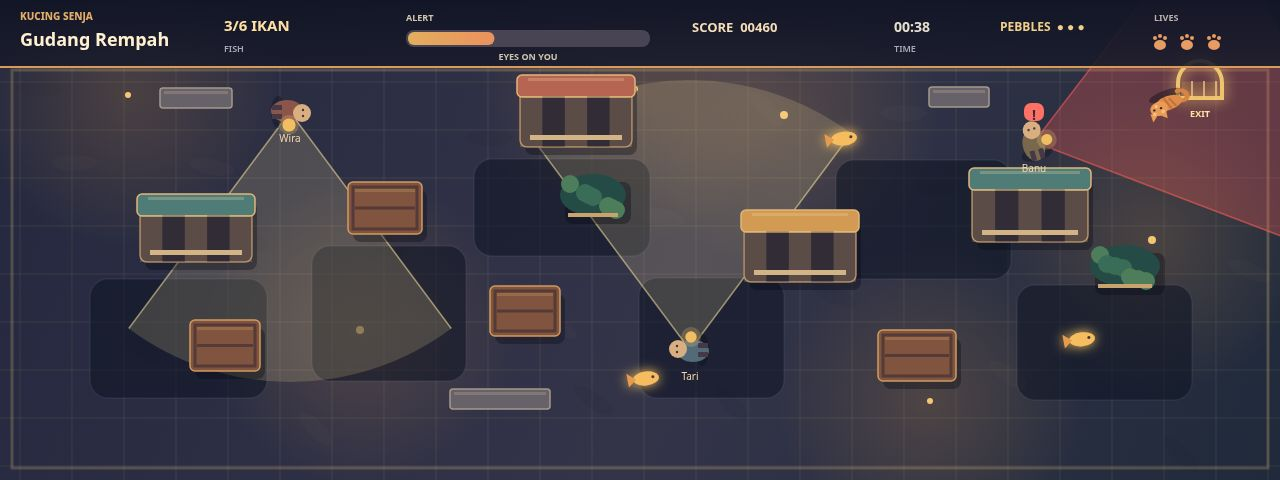
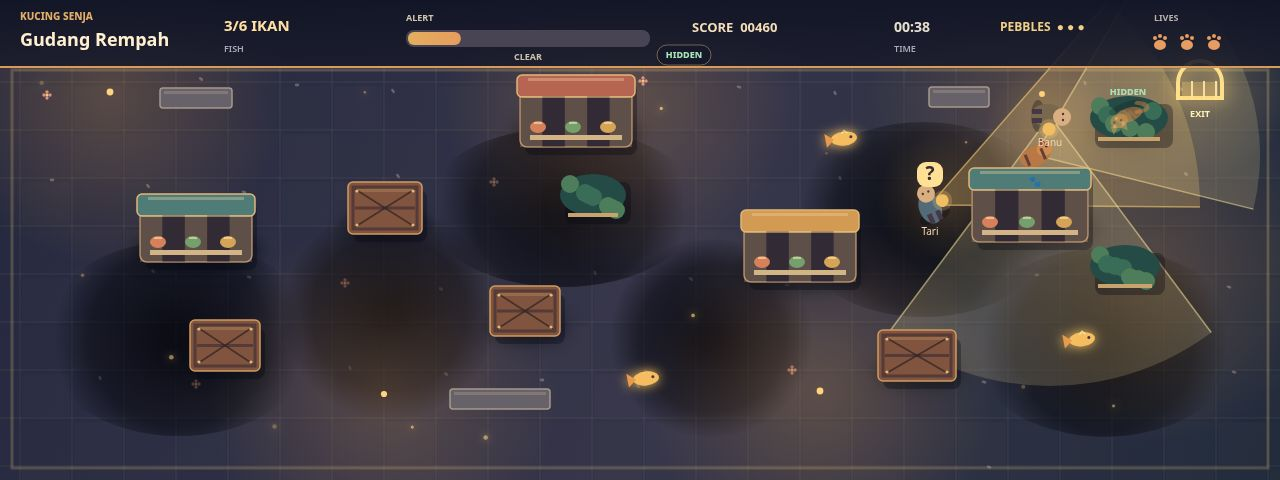
V2: lighting layer, bush-hidden, level 3 key, 3rd guard, dramatic shots

diff --git a/game/src/art.js b/game/src/art.js
@@ -1,4 +1,5 @@
 import { WIDTH, HEIGHT } from './config.js';
+import { drawLighting } from './lighting.js';
 
 const stalls=['#b76553','#d29a52','#507c78'];
 function roundBox(c,x,y,w,h,r,fill,stroke){c.beginPath();c.roundRect(x,y,w,h,r);c.fillStyle=fill;c.fill();if(stroke){c.strokeStyle=stroke;c.lineWidth=1.5;c.stroke();}}
@@ -8,13 +9,12 @@ export function drawFloor(c,state){
   const grad=c.createLinearGradient(0,0,WIDTH,HEIGHT);grad.addColorStop(0,'#24283e');grad.addColorStop(.54,'#343449');grad.addColorStop(1,'#202a3b');c.fillStyle=grad;c.fillRect(0,0,WIDTH,HEIGHT);
   c.save();c.globalAlpha=.12;c.strokeStyle='#d0b58a';c.lineWidth=1;
   for(let x=20;x<WIDTH;x+=52){c.beginPath();c.moveTo(x,66);c.lineTo(x,HEIGHT);c.stroke();}
-  for(let y=82;y<HEIGHT;y+=48){c.beginPath();c.moveTo(0,y);c.lineTo(WIDTH,y);c.stroke();}
-  c.restore();
-  // Irregular cobbles and warm pools make the lanes legible at a glance.
-  for(let i=0;i<22;i++){const x=(i*173+39)%WIDTH,y=88+(i*79)%370;c.fillStyle=i%2?'rgba(177,155,132,.035)':'rgba(20,23,37,.08)';c.beginPath();c.ellipse(x,y,23,8,(i%5)*.2,0,Math.PI*2);c.fill();}
-  const lanterns=[[128,95],[360,330],[635,89],[784,115],[930,401],[1152,240]];
-  lanterns.forEach(([x,y],i)=>{glow(c,x,y,155,'#f4a94e',.17);c.fillStyle='#f6c674';c.beginPath();c.arc(x,y,3+(i%2),0,Math.PI*2);c.fill();});
-  state.level.shadows.forEach((s)=>{c.save();c.fillStyle='rgba(12,17,32,.52)';c.beginPath();c.roundRect(s.x,s.y,s.w,s.h,18);c.fill();c.strokeStyle='rgba(132,147,178,.12)';c.stroke();c.restore();});
+  for(let y=82;y<HEIGHT;y+=48){c.beginPath();c.moveTo(0,y);c.lineTo(WIDTH,y);c.stroke();}c.restore();
+  const seed=state.seed||1;
+  for(let y=84;y<HEIGHT;y+=48)for(let x=20;x<WIDTH;x+=52){const grain=((x*17+y*29+seed*13)%11)/11;c.fillStyle='rgba(220,183,133,'+(.008+grain*.025)+')';c.fillRect(x+2,y+2,48,43);}
+  for(let i=0;i<40;i++){const x=24+(i*197+seed*23)%1230,y=78+(i*97+seed*17)%390;
+    if(i%7===0){c.fillStyle='#d68a87';for(let petal=0;petal<4;petal++){c.beginPath();c.arc(x+Math.cos(petal*Math.PI/2)*3,y+Math.sin(petal*Math.PI/2)*3,1.7,0,Math.PI*2);c.fill();}c.fillStyle='#efcf7c';c.beginPath();c.arc(x,y,1.5,0,Math.PI*2);c.fill();}
+    else{c.fillStyle='rgba(185,172,159,.42)';c.beginPath();c.ellipse(x,y,2.4,1.4,(i%5)*.3,0,Math.PI*2);c.fill();}}
   c.strokeStyle='rgba(232,192,125,.24)';c.lineWidth=3;c.strokeRect(12,70,1256,398);
 }
 
@@ -25,25 +25,25 @@ export function drawVision(c,g){
   c.globalAlpha=.56;c.strokeStyle=color;c.lineWidth=1.5;c.beginPath();c.moveTo(g.x,g.y);c.lineTo(g.x+Math.cos(g.angle-fov)*range,g.y+Math.sin(g.angle-fov)*range);c.moveTo(g.x,g.y);c.lineTo(g.x+Math.cos(g.angle+fov)*range,g.y+Math.sin(g.angle+fov)*range);c.stroke();c.restore();
 }
 
-function drawFish(c,f,t){if(f.taken)return;c.save();c.translate(f.x,f.y+Math.sin(t*3+f.x)*2);c.rotate(-.12);c.shadowColor='#ffc65f';c.shadowBlur=12;c.fillStyle='#f6bd60';c.beginPath();c.ellipse(0,0,13,7,0,0,Math.PI*2);c.fill();c.beginPath();c.moveTo(-10,0);c.lineTo(-19,-7);c.lineTo(-18,7);c.closePath();c.fillStyle='#e99b4d';c.fill();c.shadowBlur=0;c.fillStyle='#47384a';c.beginPath();c.arc(7,-1,1.5,0,Math.PI*2);c.fill();c.restore();}
-function drawExit(c,p,t){c.save();c.translate(p.x,p.y);c.shadowColor='#ffd270';c.shadowBlur=18+Math.sin(t*3)*5;c.strokeStyle='#efc46e';c.lineWidth=4;c.beginPath();c.arc(0,0,22,Math.PI,Math.PI*2);c.lineTo(22,15);c.lineTo(-22,15);c.closePath();c.stroke();c.shadowBlur=0;c.fillStyle='rgba(230,173,86,.18)';c.fillRect(-18,-1,36,16);c.strokeStyle='rgba(241,203,131,.7)';c.lineWidth=2;c.beginPath();c.moveTo(-8,-2);c.lineTo(-8,15);c.moveTo(4,-2);c.lineTo(4,15);c.moveTo(16,-2);c.lineTo(16,15);c.stroke();c.fillStyle='#ffe4a1';c.font='700 9px system-ui';c.textAlign='center';c.fillText('EXIT',0,31);c.restore();}
+function drawFish(c,f,t){if(f.taken)return;c.save();c.translate(f.x,f.y+Math.sin(t*3+f.x)*2);c.rotate(-.12);c.shadowColor='#ffc65f';c.shadowBlur=12;c.fillStyle='#f6bd60';c.beginPath();c.ellipse(0,0,13,7,0,0,Math.PI*2);c.fill();c.beginPath();c.moveTo(-10,0);c.lineTo(-19,-7);c.lineTo(-18,7);c.closePath();c.fillStyle='#e99b4d';c.fill();c.shadowBlur=0;c.fillStyle='#47384a';c.beginPath();c.arc(7,-1,1.5,0,Math.PI*2);c.fill();c.globalAlpha=.8*Math.max(0,Math.sin(t*4+f.x)*.5+.5);c.strokeStyle='#fff1bf';c.lineWidth=1.4;c.beginPath();c.moveTo(-2,-5);c.lineTo(1,-8);c.lineTo(4,-5);c.stroke();c.restore();}
+function drawExit(c,p,t,open=true){const locked=!open;c.save();c.translate(p.x,p.y);c.shadowColor=locked?'#c98458':'#ffd270';c.shadowBlur=(locked?7:24)+Math.sin(t*3)*6;c.strokeStyle=locked?'#a96f55':'#ffe08a';c.lineWidth=4;c.beginPath();c.arc(0,0,22,Math.PI,Math.PI*2);c.lineTo(22,15);c.lineTo(-22,15);c.closePath();c.stroke();c.shadowBlur=0;c.fillStyle=locked?'rgba(53,37,45,.8)':'rgba(255,210,111,.3)';c.fillRect(-18,-1,36,16);c.strokeStyle=locked?'rgba(190,132,101,.8)':'rgba(255,231,169,.9)';c.lineWidth=2;c.beginPath();for(const x of [-8,4,16]){c.moveTo(x,-2);c.lineTo(x,15);}c.stroke();c.fillStyle=locked?'#e3a486':'#fff0b8';c.font='700 9px system-ui';c.textAlign='center';c.fillText(locked?'LOCKED':'EXIT',0,31);c.restore();};function drawKey(c,k,t){c.save();c.translate(k.x,k.y+Math.sin(t*3)*2);c.rotate(-.35);c.shadowColor='#ffe08b';c.shadowBlur=16;c.strokeStyle='#ffdb77';c.lineWidth=4;c.beginPath();c.arc(-4,0,6,0,Math.PI*2);c.moveTo(2,0);c.lineTo(17,0);c.lineTo(17,5);c.moveTo(12,0);c.lineTo(12,4);c.stroke();c.shadowBlur=0;c.fillStyle='#fff2bf';c.beginPath();c.arc(-4,0,2,0,Math.PI*2);c.fill();c.restore();}
 
 export function drawCover(c,items){
   for(const o of items){c.save();c.fillStyle='rgba(7,10,20,.34)';c.beginPath();c.roundRect(o.x+5,o.y+8,o.w,o.h,8);c.fill();
-    if(o.type==='stall'){roundBox(c,o.x,o.y+12,o.w,o.h-12,7,'#392f38','#a98563');const col=stalls[o.tone||0];roundBox(c,o.x-3,o.y,o.w+6,22,5,col,'#e0b77b');c.fillStyle='rgba(245,217,162,.26)';c.fillRect(o.x+8,o.y+3,o.w-16,3);for(let i=0;i<5;i++){c.fillStyle=i%2?'rgba(26,33,50,.2)':'rgba(250,211,145,.18)';c.fillRect(o.x+i*o.w/5,o.y+21,o.w/5,o.h-21);}c.fillStyle='#d3b486';c.fillRect(o.x+10,o.y+o.h-12,o.w-20,5);}
-    else if(o.type==='crate'){roundBox(c,o.x,o.y,o.w,o.h,5,'#80543e','#d19a5f');c.strokeStyle='#543b37';c.lineWidth=3;c.strokeRect(o.x+5,o.y+5,o.w-10,o.h-10);c.beginPath();c.moveTo(o.x+7,o.y+o.h/2);c.lineTo(o.x+o.w-7,o.y+o.h/2);c.stroke();c.fillStyle='rgba(246,199,126,.2)';c.fillRect(o.x+7,o.y+7,o.w-14,3);}
+    if(o.type==='stall'){roundBox(c,o.x,o.y+12,o.w,o.h-12,7,'#392f38','#a98563');const col=stalls[o.tone||0];roundBox(c,o.x-3,o.y,o.w+6,22,5,col,'#e0b77b');c.fillStyle='rgba(245,217,162,.34)';c.fillRect(o.x+8,o.y+3,o.w-16,3);for(let i=0;i<5;i++){c.fillStyle=i%2?'rgba(26,33,50,.22)':'rgba(250,211,145,.2)';c.fillRect(o.x+i*o.w/5,o.y+21,o.w/5,o.h-21);}c.fillStyle='#d3b486';c.fillRect(o.x+10,o.y+o.h-12,o.w-20,5);for(let i=0;i<3;i++){const gx=o.x+18+i*(o.w-42)/2;c.fillStyle=['#d68159','#75a06d','#d6a457'][i];c.beginPath();c.ellipse(gx,o.y+o.h-20,8,6,0,0,Math.PI*2);c.fill();c.fillStyle='rgba(255,235,186,.55)';c.fillRect(gx-4,o.y+o.h-25,8,2);}}
+    else if(o.type==='crate'){roundBox(c,o.x,o.y,o.w,o.h,5,'#80543e','#d19a5f');c.strokeStyle='#543b37';c.lineWidth=3;c.strokeRect(o.x+5,o.y+5,o.w-10,o.h-10);c.beginPath();c.moveTo(o.x+7,o.y+o.h/2);c.lineTo(o.x+o.w-7,o.y+o.h/2);c.stroke();c.fillStyle='rgba(246,199,126,.2)';c.fillRect(o.x+7,o.y+7,o.w-14,3);c.strokeStyle='rgba(43,31,34,.7)';c.lineWidth=1.5;c.beginPath();c.moveTo(o.x+7,o.y+7);c.lineTo(o.x+o.w-7,o.y+o.h-7);c.moveTo(o.x+o.w-7,o.y+7);c.lineTo(o.x+7,o.y+o.h-7);c.stroke();c.fillStyle='#e2b77b';for(const [nx,ny] of [[9,9],[o.w-9,9],[9,o.h-9],[o.w-9,o.h-9]]){c.beginPath();c.arc(o.x+nx,o.y+ny,1.6,0,Math.PI*2);c.fill();}}
     else if(o.type==='bush'){c.fillStyle='#254b46';c.beginPath();c.ellipse(o.x+o.w/2,o.y+o.h/2,o.w/2,o.h/2,0,0,Math.PI*2);c.fill();for(let i=0;i<7;i++){const x=o.x+10+(i*23)%(o.w-16),y=o.y+10+(i*13)%(o.h-14);c.fillStyle=i%2?'#396d58':'#4e7d5b';c.beginPath();c.arc(x,y,9,0,Math.PI*2);c.fill();}c.fillStyle='#c9a36d';c.fillRect(o.x+8,o.y+o.h-3,o.w-16,4);}
     c.restore();}
 }
 
 function drawWall(c,w){roundBox(c,w.x,w.y,w.w,w.h,3,'#67616a','#a5998b');c.fillStyle='rgba(255,230,184,.18)';c.fillRect(w.x+4,w.y+3,w.w-8,3);}
 export function drawWorld(c,state){
-  drawFloor(c,state);state.guards.forEach((g)=>drawVision(c,g));
-  state.fish.forEach((f)=>drawFish(c,f,state.elapsed));drawExit(c,state.level.exit,state.elapsed);
+  drawFloor(c,state);drawLighting(c,state);state.guards.forEach((g)=>drawVision(c,g));
+  state.fish.forEach((f)=>drawFish(c,f,state.elapsed));if(state.level.key&&!state.hasKey)drawKey(c,state.level.key,state.elapsed);drawExit(c,state.level.exit,state.elapsed,!state.level.key||state.hasKey);
   if(state.noise&&state.noise.life>0){c.save();c.globalAlpha=Math.min(.55,state.noise.life);c.strokeStyle='#f3d07e';c.lineWidth=2;c.beginPath();c.arc(state.noise.x,state.noise.y,24+(1-state.noise.life)*70,0,Math.PI*2);c.stroke();c.restore();}
   state.effects.forEach((e)=>{c.save();c.globalAlpha=Math.max(0,e.life/.7);c.strokeStyle=e.color;c.lineWidth=2;c.beginPath();c.arc(e.x,e.y,10+(1-e.life)*36,0,Math.PI*2);c.stroke();c.restore();});
   state.level.walls.forEach((w)=>drawWall(c,w));drawCover(c,state.level.cover);
-  state.guards.forEach((g)=>drawGuard(c,g,state.elapsed));drawCat(c,state.player);
+  state.guards.forEach((g)=>drawGuard(c,g,state.elapsed));drawCat(c,state.player,state.elapsed);
 }
 
 function drawGuard(c,g,t){
@@ -64,19 +64,20 @@ function drawGuard(c,g,t){
   }
   c.restore();
   c.fillStyle='#f2d6b0';c.font='10px system-ui';c.textAlign='center';c.fillText(g.kind==='dog'?'🐾':g.name,g.x,g.y+27);
-  if(g.state==='suspicious'||g.state==='chase'){c.save();c.fillStyle=g.state==='chase'?'#ff7165':'#ffe095';c.beginPath();c.roundRect(g.x-10,g.y-39,20,18,7);c.fill();c.fillStyle='#392c36';c.font='bold 14px system-ui';c.textAlign='center';c.fillText(g.state==='chase'?'!':'?',g.x,g.y-26);c.restore();}
+  if(g.state==='suspicious'||g.state==='chase'){c.save();c.fillStyle=g.state==='chase'?'#ff7165':'#ffe095';c.beginPath();c.roundRect(g.x-13,g.y-43,26,25,9);c.fill();c.fillStyle='#392c36';c.font='bold 19px system-ui';c.textAlign='center';c.fillText(g.state==='chase'?'!':'?',g.x,g.y-30);c.restore();}
 }
 
-export function drawCat(c,p){
-  c.save();c.translate(p.x,p.y);c.rotate(p.face);c.scale(p.sneaking?1:.95,p.sneaking?.78:1);
+export function drawCat(c,p,t=0){
+  c.save();if(p.hidden)c.globalAlpha=.48;c.translate(p.x,p.y);c.rotate(p.face);c.scale(p.sneaking?1:.95,p.sneaking?.78:1);
   c.fillStyle='rgba(3,7,17,.4)';c.beginPath();c.ellipse(-1,11,18,7,0,0,Math.PI*2);c.fill();
-  c.strokeStyle='#d78343';c.lineWidth=5;c.lineCap='round';c.beginPath();c.moveTo(-10,1);c.bezierCurveTo(-24,-10,-24,12,-13,12);c.stroke();
+  const tail=Math.sin(t*5+p.x*.01)*8;c.strokeStyle='#d78343';c.lineWidth=5;c.lineCap='round';c.beginPath();c.moveTo(-10,1);c.bezierCurveTo(-24,-10+tail,-24,12-tail,-13,12);c.stroke();
   c.fillStyle='#df8c49';c.beginPath();c.ellipse(-1,1,14,9,0,0,Math.PI*2);c.fill();
   c.fillStyle='#eb9b54';c.beginPath();c.arc(10,-2,9,0,Math.PI*2);c.fill();
-  c.beginPath();c.moveTo(4,-8);c.lineTo(5,-17);c.lineTo(12,-9);c.fill();c.beginPath();c.moveTo(13,-9);c.lineTo(20,-16);c.lineTo(20,-5);c.fill();
+  c.beginPath();c.moveTo(4,-8);c.lineTo(5,-17);c.lineTo(12,-9);c.fill();const twitch=Math.sin(t*2.7+1)*1.5;c.beginPath();c.moveTo(13,-9);c.lineTo(20,-16+twitch);c.lineTo(20,-5);c.fill();
   c.fillStyle='#f4c08a';c.beginPath();c.arc(7,-7,2,0,Math.PI*2);c.arc(16,-7,2,0,Math.PI*2);c.fill();
   c.fillStyle='#241f32';c.beginPath();c.arc(8,-2,1.3,0,Math.PI*2);c.arc(15,-2,1.3,0,Math.PI*2);c.fill();
   c.fillStyle='#f5cf90';c.beginPath();c.arc(12,2,1.6,0,Math.PI*2);c.fill();
   c.strokeStyle='#bf713e';c.lineWidth=2;c.beginPath();c.moveTo(-7,-5);c.lineTo(-3,6);c.moveTo(-2,-7);c.lineTo(2,8);c.stroke();
   c.restore();
+  if(p.hidden){c.fillStyle='#a9e2b8';c.font='800 9px system-ui';c.textAlign='center';c.fillText('HIDDEN',p.x,p.y-24);}
 }

diff --git a/game/src/render.js b/game/src/render.js
@@ -8,11 +8,13 @@ export function drawHud(c,s){
   const g=c.createLinearGradient(0,0,0,68);g.addColorStop(0,'rgba(18,21,38,.97)');g.addColorStop(1,'rgba(25,27,43,.88)');c.fillStyle=g;c.fillRect(0,0,1280,68);c.fillStyle='#d99b5a';c.fillRect(0,66,1280,2);
   label(c,'KUCING SENJA',20,17,10,'#e1ad69',800);label(c,s.level.name,20,41,18,'#fff0d1',700);
   label(c,`${s.fishCount}/${s.fish.length} IKAN`,224,27,15,'#ffe1a3',700);label(c,'FISH',224,49,9,'#a9a9b8',600);
+  if(s.level.key){c.save();c.strokeStyle=s.hasKey?'#a9e2b8':'#f3c96f';c.lineWidth=3;c.beginPath();c.arc(329,31,6,0,Math.PI*2);c.moveTo(335,31);c.lineTo(349,31);c.lineTo(349,36);c.moveTo(344,31);c.lineTo(344,35);c.stroke();label(c,s.hasKey?'KEY ✓':'KEY',356,32,10,s.hasKey?'#a9e2b8':'#f3d48d',800);c.restore();}
   label(c,'ALERT',406,18,9,s.alert>.55?'#ff8978':'#d3c6ad',700);
   c.fillStyle='#494453';c.beginPath();c.roundRect(406,30,244,17,8);c.fill();
   const meter=c.createLinearGradient(408,0,648,0);meter.addColorStop(0,'#e3ae5e');meter.addColorStop(.65,'#f2795d');meter.addColorStop(1,'#ed4c57');
   if(s.alert>0){c.fillStyle=meter;c.beginPath();c.roundRect(408,32,Math.max(4,240*s.alert),13,6);c.fill();}
   label(c,s.alert>.7?'DANGER':s.alert>.3?'EYES ON YOU':'CLEAR',528,57,9,s.alert>.55?'#ff9c89':'#cfc3ae',700,'center');
+  if(s.player.hidden){pane(c,657,45,54,20,.92);label(c,'HIDDEN',684,55,9,'#a9e2b8',800,'center');}
   label(c,`SCORE  ${String(s.score).padStart(5,'0')}`,692,28,13,'#f3deb9',700);
   const seconds=Math.floor(s.levelTime);label(c,`${String(Math.floor(seconds/60)).padStart(2,'0')}:${String(seconds%60).padStart(2,'0')}`,894,28,14,'#e7decf',700);label(c,'TIME',894,49,9,'#a9a9b8',600);
   label(c,`PEBBLES  ${'● '.repeat(s.pebbles).trim()||'—'}`,1000,28,12,'#f1cf89',700);
@@ -33,7 +35,7 @@ function titleScreen(c,s){
 
 function modal(c,title,subtitle,action,color='#f2c579'){
   pane(c,410,123,460,237,.97);c.save();c.textAlign='center';label(c,title,640,174,29,color,800,'center');label(c,subtitle,640,217,14,'#d8cfc4',500,'center');
-  c.fillStyle='rgba(237,177,93,.18)';c.beginPath();c.roundRect(500,264,280,45,12);c.fill();label(c,action,640,286,13,'#ffe1a2',700,'center');c.restore();
+  c.fillStyle='rgba(237,177,93,.18)';c.beginPath();c.roundRect(500,310,280,42,12);c.fill();label(c,action,640,331,13,'#ffe1a2',700,'center');c.restore();
 }
 
 export function render(c,s){
@@ -45,7 +47,8 @@ export function render(c,s){
   if(s.screen==='game-over')modal(c,'THE MARKET WAKES','Miko has run out of chances.','ENTER   ·   TRY AGAIN','#f17a68');
   if(s.screen==='level-complete'){
     modal(c,s.level.name.toUpperCase(),'Fish secured · the exit stayed quiet.',`+${s.levelScore}   ·   ${s.fishCount}/${s.fish.length} FISH`);
-    const stars=s.stars||1;for(let i=0;i<3;i++){c.fillStyle=i<stars?'#f4c773':'#58525c';c.font='34px system-ui';c.textAlign='center';c.fillText('★',592+i*48,255);}
+    if(!s.everSeen)label(c,'✦ NEVER SPOTTED  ·  BONUS AWARDED',640,240,11,'#a9e2b8',800,'center');
+    const stars=s.stars||1;for(let i=0;i<3;i++){c.fillStyle=i<stars?'#f4c773':'#58525c';c.font='34px system-ui';c.textAlign='center';c.fillText('★',592+i*48,273);}
   }
   if(s.screen==='win')modal(c,'DAWN, AT LAST','Miko slipped through all three markets unseen.',`FINAL SCORE   ${s.score}   ·   BEST   ${s.best}`);
 }

diff --git a/game/src/player.js b/game/src/player.js
@@ -1,5 +1,6 @@
 import { DASH_COOLDOWN, DASH_SPEED, DASH_TIME, PEBBLES_PER_LEVEL, SNEAK_SPEED, WALK_SPEED } from './config.js';
 import { sound } from './audio.js';
+import { isInShadow } from './lighting.js';
 
 export function makePlayer(start) {
   return {x:start.x,y:start.y,face:0,sneaking:false,running:false,hidden:false,inShadow:false,dash:0,dashCooldown:0,pebbleCooldown:0,stepClock:0,stride:0};
@@ -28,6 +29,7 @@ export function throwPebble(state,target) {
 
 export function updatePlayer(state,controls,dt) {
   const p=state.player;
+  if(state.keyFishRef!==state.fish){state.keyFishRef=state.fish;state.hasKey=!state.level.key;}
   p.dashCooldown=Math.max(0,p.dashCooldown-dt); p.pebbleCooldown=Math.max(0,p.pebbleCooldown-dt);
   if (controls.pebble) throwPebble(state,controls.pebble);
   let dx=controls.dx||0,dy=controls.dy||0,mag=Math.hypot(dx,dy);
@@ -42,8 +44,8 @@ export function updatePlayer(state,controls,dt) {
   const speed=dashing?DASH_SPEED:(p.sneaking?SNEAK_SPEED:WALK_SPEED);
   if (mag>0) move(p,dx*speed*dt,dy*speed*dt,[...state.level.cover,...state.level.walls]);
   p.dash=Math.max(0,p.dash-dt); p.stride+=mag*dt*(p.sneaking?5:10);
-  p.inShadow=state.level.shadows.some((r)=>p.x>r.x&&p.x<r.x+r.w&&p.y>r.y&&p.y<r.y+r.h);
-  p.hidden=state.level.cover.some((r)=>r.type==='bush'&&p.x>r.x&&p.x<r.x+r.w&&p.y>r.y&&p.y<r.y+r.h);
+  p.inShadow=isInShadow(p.x,p.y,state.level);
+  const margin=11;p.hidden=state.level.cover.some((r)=>r.type==='bush'&&p.x>=r.x+margin&&p.x<=r.x+r.w-margin&&p.y>=r.y+margin&&p.y<=r.y+r.h-margin);
   if (mag>0) {
     p.stepClock-=dt;
     if (p.stepClock<=0) {
@@ -54,6 +56,7 @@ export function updatePlayer(state,controls,dt) {
   }
   if (state.noise) { state.noise.life-=dt; if(state.noise.life<=0) state.noise=null; }
   state.comboTime=Math.max(0,state.comboTime-dt);
+  const key=state.level.key;if(key&&!state.hasKey&&Math.hypot(key.x-p.x,key.y-p.y)<24){state.hasKey=true;sound('fish');state.effects.push({x:key.x,y:key.y,life:.75,color:'#ffe08b',kind:'spark'});}
   for (const fish of state.fish) {
     if (fish.taken||Math.hypot(fish.x-p.x,fish.y-p.y)>25) continue;
     fish.taken=true; state.fishCount+=1; state.combo=state.comboTime>0?state.combo+1:1; state.comboTime=2.6;
@@ -61,7 +64,7 @@ export function updatePlayer(state,controls,dt) {
     state.effects.push({x:fish.x,y:fish.y,life:.7,color:'#ffd889',kind:'spark'});
   }
   const needed=Math.ceil(state.fish.length/2);
-  if (state.fishCount>=needed&&Math.hypot(p.x-state.level.exit.x,p.y-state.level.exit.y)<35) state.completeLevel();
+  if (state.fishCount>=needed&&(!state.level.key||state.hasKey)&&Math.hypot(p.x-state.level.exit.x,p.y-state.level.exit.y)<35) state.completeLevel();
 }
 
 export { PEBBLES_PER_LEVEL };

diff --git a/game/src/lighting.js b/game/src/lighting.js
@@ -1,0 +1,57 @@
+// Seeded lantern pools and ambient shadows keep every staged frame reproducible.
+export function isInShadow(x,y,level){
+  return Boolean(level?.shadows?.some((r)=>x>=r.x&&x<=r.x+r.w&&y>=r.y&&y<=r.y+r.h));
+}
+
+function seeded(seed){
+  let value=(Number(seed)||1)>>>0;
+  return ()=>{value=(value*1664525+1013904223)>>>0;return value/4294967296;};
+}
+
+function radial(ctx,x,y,r,color,alpha){
+  const g=ctx.createRadialGradient(x,y,2,x,y,r);
+  g.addColorStop(0,`rgba(${color},${alpha})`);g.addColorStop(1,`rgba(${color},0)`);
+  ctx.fillStyle=g;ctx.fillRect(x-r,y-r,r*2,r*2);
+}
+
+function lanternsFor(levelIndex){
+  return [
+    [[128,95],[360,330],[635,89],[784,115],[930,401],[1152,240]],
+    [[110,92],[384,394],[618,97],[820,391],[1042,94],[1152,270]],
+    [[111,94],[320,405],[576,90],[806,401],[1000,93],[1170,268]],
+  ][Math.max(0,Math.min(2,levelIndex))];
+}
+
+export function drawLighting(ctx,state){
+  const t=state.elapsed||0,seed=state.seed||1,lanterns=lanternsFor(state.levelIndex||0);
+  ctx.save();ctx.globalCompositeOperation='multiply';
+  for(const s of state.level.shadows){
+    const x=s.x+s.w/2,y=s.y+s.h/2,r=Math.max(s.w,s.h)*.7;
+    const g=ctx.createRadialGradient(x,y,r*.12,x,y,r);
+    g.addColorStop(0,'rgba(11,15,29,.76)');g.addColorStop(.68,'rgba(13,17,31,.48)');g.addColorStop(1,'rgba(15,19,34,0)');
+    ctx.fillStyle=g;ctx.beginPath();ctx.ellipse(x,y,s.w*.78,s.h*.82,0,0,Math.PI*2);ctx.fill();
+  }
+  ctx.restore();
+  ctx.save();ctx.filter='blur(8px)';ctx.globalAlpha=.55;ctx.fillStyle='#090d1a';
+  for(const o of state.level.cover){ctx.beginPath();ctx.ellipse(o.x+o.w*.52,o.y+o.h*.82,o.w*.58,Math.max(9,o.h*.34),0,0,Math.PI*2);ctx.fill();}
+  ctx.restore();
+  for(let i=0;i<lanterns.length;i++){
+    const [x,y]=lanterns[i],flicker=.92+Math.sin(t*5+i*2.1)*.06+Math.sin(t*11+i)*.025;
+    radial(ctx,x,y,175,'255,174,83',.22*flicker);
+    ctx.fillStyle='#ffd47e';ctx.beginPath();ctx.arc(x,y,3.5*flicker,0,Math.PI*2);ctx.fill();
+  }
+  for(const g of state.guards){
+    if(g.kind==='dog')continue;
+    radial(ctx,g.x+Math.cos(g.angle)*13,g.y+Math.sin(g.angle)*13,66,'255,191,103',.18);
+  }
+  const exit=state.level.exit,pulse=.78+.22*Math.sin(t*3.4);
+  radial(ctx,exit.x,exit.y,95,'255,205,111',.24*pulse);
+  const rand=seeded(seed+7919*(state.levelIndex+1));
+  for(let i=0;i<17;i++){
+    const x=25+rand()*1230,y=82+rand()*380,phase=rand()*Math.PI*2;
+    const a=.24+.5*(.5+.5*Math.sin(t*2+phase));
+    ctx.globalAlpha=a;ctx.fillStyle='#ffd781';ctx.shadowColor='#f7bf62';ctx.shadowBlur=7;
+    ctx.beginPath();ctx.arc(x,y,1.2+rand()*1.1,0,Math.PI*2);ctx.fill();
+  }
+  ctx.globalAlpha=1;ctx.shadowBlur=0;
+}

diff --git a/game/src/levels.js b/game/src/levels.js
@@ -5,6 +5,7 @@ export const LEVELS = [
     guards: [
       {name:'Pak Rudi',color:'#8b5549',route:[{x:310,y:142,pause:.7},{x:575,y:142,pause:1.1},{x:575,y:300,pause:.7},{x:310,y:300,pause:1}]},
       {name:'Mbak Sari',color:'#536b79',route:[{x:895,y:351,pause:1},{x:1105,y:351,pause:.8},{x:1105,y:172,pause:1},{x:895,y:172,pause:.7}]},
+      {name:'Ari',color:'#8a6e50',route:[{x:650,y:125,pause:1.8},{x:650,y:350,pause:1.8},{x:715,y:350,pause:1.8},{x:715,y:125,pause:1.8}]},
     ],
     cover: [
       {type:'stall',x:145,y:205,w:126,h:72,tone:0},{type:'crate',x:382,y:188,w:68,h:48},
@@ -23,11 +24,11 @@ export const LEVELS = [
       {name:'Tari',color:'#536b79',route:[{x:690,y:350,pause:.8},{x:690,y:117,pause:.6},{x:870,y:117,pause:.8},{x:870,y:350,pause:.7}]},
       {name:'Banu',color:'#79684d',route:[{x:1050,y:116,pause:.8},{x:1050,y:352,pause:.8},{x:1145,y:352,pause:.6},{x:1145,y:116,pause:.8}]},
     ],
-    cover:[{type:'stall',x:140,y:194,w:112,h:68,tone:2},{type:'crate',x:348,y:182,w:74,h:52},{type:'crate',x:490,y:286,w:70,h:50},{type:'stall',x:520,y:75,w:112,h:72,tone:0},{type:'bush',x:560,y:174,w:66,h:42},{type:'stall',x:744,y:210,w:112,h:72,tone:1},{type:'crate',x:878,y:330,w:78,h:51},{type:'stall',x:972,y:168,w:116,h:74,tone:2},{type:'bush',x:1090,y:245,w:70,h:42},{type:'crate',x:190,y:320,w:70,h:51}],
+    cover:[{type:'stall',x:140,y:194,w:112,h:68,tone:2},{type:'crate',x:348,y:182,w:74,h:52},{type:'crate',x:490,y:286,w:70,h:50},{type:'stall',x:520,y:75,w:112,h:72,tone:0},{type:'bush',x:560,y:174,w:66,h:42},{type:'stall',x:744,y:210,w:112,h:72,tone:1},{type:'crate',x:878,y:330,w:78,h:51},{type:'stall',x:972,y:168,w:116,h:74,tone:2},{type:'bush',x:1090,y:245,w:70,h:42},{type:'bush',x:1090,y:96,w:78,h:44},{type:'crate',x:190,y:320,w:70,h:51}],
     walls:[{x:160,y:88,w:72,h:20},{x:450,y:389,w:100,h:20},{x:929,y:87,w:60,h:20}],
     shadows:[{x:90,y:279,w:177,h:119},{x:312,y:246,w:154,h:135},{x:474,y:159,w:176,h:97},{x:639,y:278,w:145,h:120},{x:836,y:160,w:175,h:119},{x:1017,y:285,w:175,h:115}],hints:[]
   },
-  { name:'Dermaga Lentera',subtitle:'Lantern dock · the hound hears a sprint',playerStart:{x:75,y:420},exit:{x:1204,y:75},
+  { name:'Dermaga Lentera',subtitle:'Lantern dock · the hound hears a sprint',playerStart:{x:75,y:420},exit:{x:1204,y:75},key:{x:1110,y:390},
     fish:[{x:167,y:102},{x:280,y:357},{x:430,y:112},{x:575,y:358},{x:754,y:118},{x:918,y:358},{x:1085,y:155}],
     guards:[
       {name:'Jaka',color:'#8b5549',route:[{x:242,y:110,pause:.5},{x:380,y:110,pause:.5},{x:380,y:230,pause:.6},{x:242,y:230,pause:.5}]},

diff --git a/game/src/shots.js b/game/src/shots.js
@@ -8,14 +8,16 @@ export function stageShot(name,state){
   if(name==='start'){state.screen='title';state.best=Math.max(state.best,1240);return;}
   state.screen='play';
   if(name==='play'){
-    state.player.x=458;state.player.y=211;state.player.face=-2.7;state.player.sneaking=true;state.player.inShadow=true;
-    state.fish.slice(0,2).forEach((f)=>f.taken=true);state.fishCount=2;state.score=200;state.alert=.11;
-    const g=state.guards[0];g.x=560;g.y=248;g.angle=Math.atan2(state.player.y-g.y,state.player.x-g.x);g.routeIndex=1;g.state='patrol';
+    state.player.x=458;state.player.y=211;state.player.face=-2.7;state.player.sneaking=true;state.player.hidden=false;state.player.inShadow=true;
+    state.fish.slice(0,2).forEach((f)=>f.taken=true);state.fishCount=2;state.score=200;state.alert=.34;
+    const g=state.guards[0];g.x=560;g.y=248;g.angle=Math.atan2(state.player.y-g.y,state.player.x-g.x);g.routeIndex=1;g.state='suspicious';g.suspicion=.58;
     return;
   }
   if(name==='play2'){
-    state.player.x=1168;state.player.y=104;state.player.face=2.8;state.player.sneaking=true;state.fish.slice(0,3).forEach((f)=>f.taken=true);state.fishCount=3;state.score=460;state.alert=.36;
-    const g=state.guards[2];g.x=1034;g.y=142;g.angle=Math.atan2(state.player.y-g.y,state.player.x-g.x);g.state='chase';g.suspicion=.74;g.target={x:state.player.x,y:state.player.y};
+    state.player.x=1128;state.player.y=116;state.player.face=2.8;state.player.sneaking=true;state.player.hidden=true;state.player.inShadow=true;
+    state.fish.slice(0,3).forEach((f)=>f.taken=true);state.fishCount=3;state.score=460;state.alert=.22;
+    const dog=state.guards[0];dog.kind='dog';dog.name='Warehouse hound';dog.x=1035;dog.y=155;dog.range=225;dog.angle=Math.atan2(state.player.y-dog.y,state.player.x-dog.x);
+    const watch=state.guards[1];watch.x=930;watch.y=205;watch.state='suspicious';watch.suspicion=.68;watch.angle=Math.atan2(state.player.y-watch.y,state.player.x-watch.x);
     return;
   }
   if(name==='end'){

diff --git a/game/src/guards.js b/game/src/guards.js
@@ -47,6 +47,8 @@ function investigateNoise(guard, noise) {
 
 export function updateGuards(state, dt) {
   const blockers=[...state.level.cover,...state.level.walls];
+  const p=state.player,margin=11;
+  p.hidden=state.level.cover.some((b)=>b.type==='bush'&&p.x>=b.x+margin&&p.x<=b.x+b.w-margin&&p.y>=b.y+margin&&p.y<=b.y+b.h-margin);
   let danger=0, playerSeen=false;
   for (const guard of state.guards) {
     investigateNoise(guard,state.noise);
